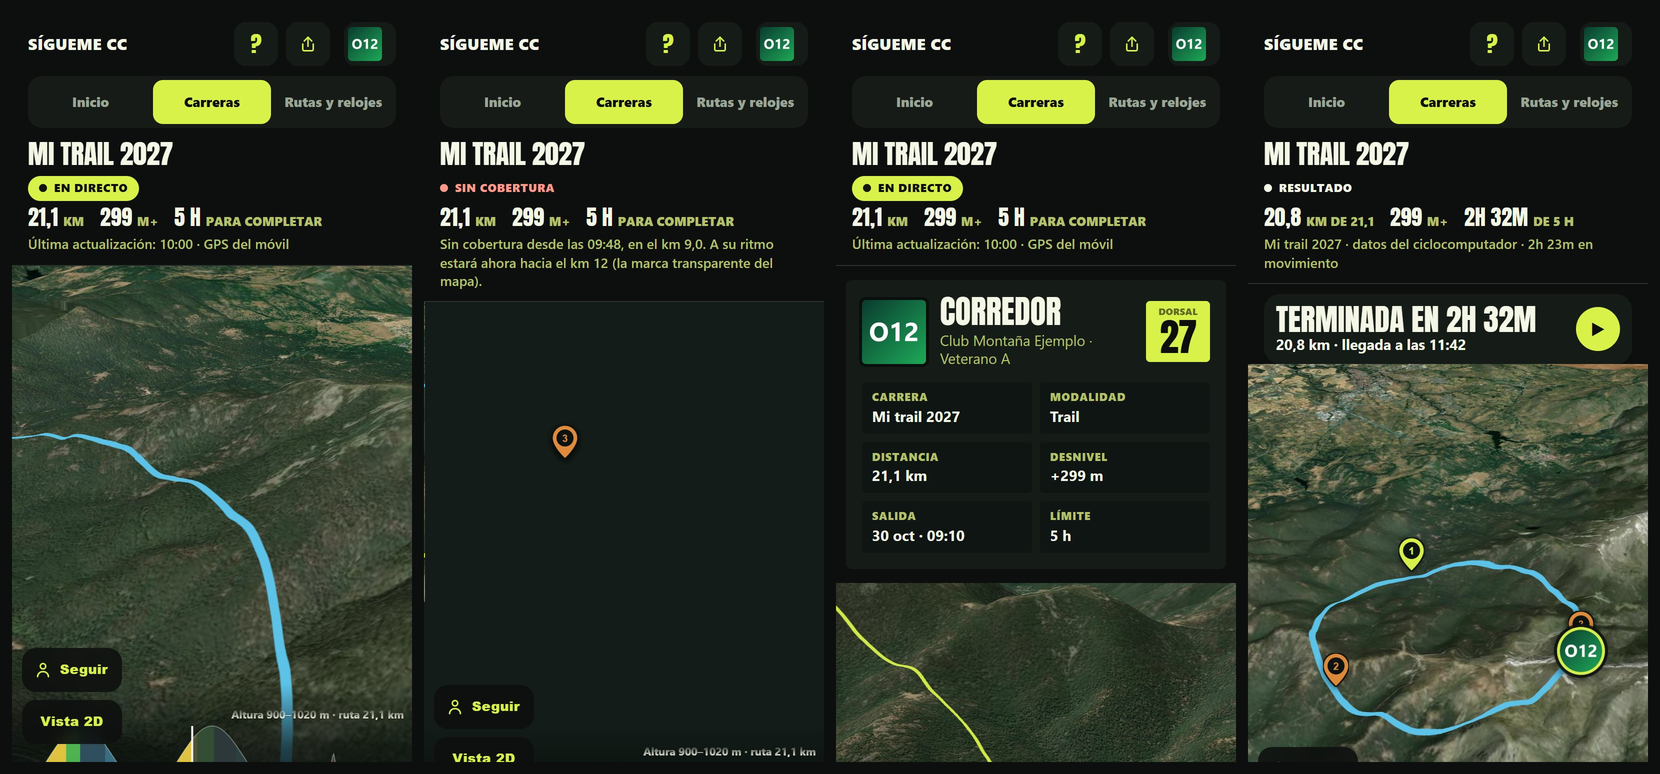
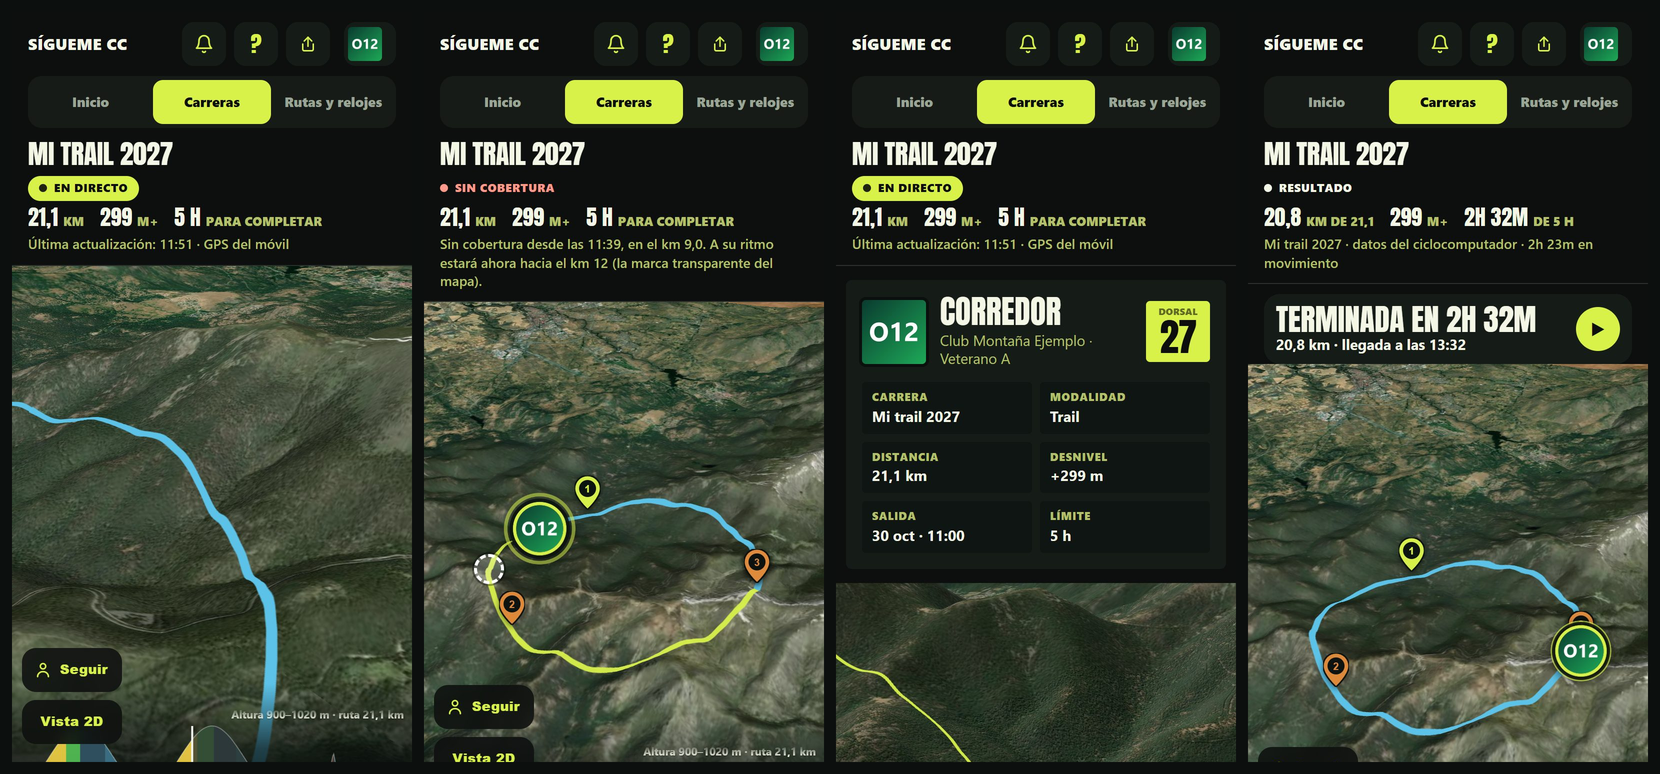
v1.47.2 · Rutas con saltos de GPS y capturas con la campana

diff --git a/pruebas/rutas_gpx.py b/pruebas/rutas_gpx.py
@@ -1,0 +1,52 @@
+"""Carga de rutas: muchos tipos de GPX dan la misma ruta (distancia y D+), los saltos de GPS no la inflan y los
+ficheros malos se rechazan con una explicación. Sin servidor: llama a herramientas/preparar_ruta.py."""
+import math, pathlib, sys
+
+sys.path.insert(0, str(pathlib.Path(__file__).resolve().parent.parent / "herramientas"))
+import preparar_ruta as pr
+
+R = 20.0 / (2 * math.pi) / 111.0
+fallos = []
+
+
+def ok(c, t):
+    print(("OK   " if c else "MAL  ") + t)
+    if not c:
+        fallos.append(t)
+
+
+def circuito(n=2000, ele=True, picos=False):
+    pts = []
+    for i in range(n + 1):
+        a = 2 * math.pi * i / n
+        la, lo = 42.6 + R * math.sin(a), -8.1 + R * math.cos(a) / math.cos(math.radians(42.6))
+        e = 300 + 150 * math.exp(-((i / n - 0.25) / 0.05) ** 2) + 90 * math.exp(-((i / n - 0.65) / 0.04) ** 2)
+        if picos and i % 400 == 200:
+            la += 0.01
+        pts.append((la, lo, round(e, 1) if ele else None))
+    return pts
+
+
+def gpx(pts, etiqueta="trkpt", ns=True):
+    cab = '<?xml version="1.0"?><gpx version="1.1"' + (' xmlns="http://www.topografix.com/GPX/1/1"' if ns else "") + ">"
+    cuerpo = "".join(f'<{etiqueta} lat="{p[0]:.6f}" lon="{p[1]:.6f}">' + (f"<ele>{p[2]}</ele>" if p[2] is not None else "") + f"</{etiqueta}>" for p in pts)
+    return (cab + ("<rte>" + cuerpo + "</rte>" if etiqueta == "rtept" else "<trk><trkseg>" + cuerpo + "</trkseg></trk>") + "</gpx>").encode()
+
+
+base = pr.preparar(gpx(circuito()))[2]
+ok(19.5 <= base["distancia_km"] <= 20.5 and 200 <= base["desnivel_m"] <= 300, f"track normal: {base['distancia_km']} km, +{base['desnivel_m']} m")
+for nombre, cuerpo in (("ruta <rtept>", gpx(circuito(), "rtept")), ("sin espacio de nombres", gpx(circuito(), ns=False)),
+                       ("con BOM", b"\xef\xbb\xbf" + gpx(circuito())), ("con saltos de GPS", gpx(circuito(picos=True)))):
+    r = pr.preparar(cuerpo)[2]
+    ok(abs(r["distancia_km"] - base["distancia_km"]) < 0.3, f"{nombre}: {r['distancia_km']} km (como el normal)")
+ok(pr.preparar(gpx(circuito(ele=False)))[2]["con_elevacion"] is False, "sin altura: entra sin D+ inventado")
+ok(abs(pr.preparar(gpx(circuito()), "x", 21.1)[2]["distancia_km"] - 21.1) < 0.01, "distancia oficial: la ruta se ajusta")
+for nombre, cuerpo in (("no es XML", b"hola"), ("sin puntos", gpx([])), ("menos de 100 m", gpx(circuito()[:5])),
+                       ("con ENTITY", b'<!DOCTYPE g [<!ENTITY a "a">]><gpx>&a;</gpx>'), ("UTF-16", gpx(circuito()[:50]).decode().encode("utf-16"))):
+    try:
+        pr.preparar(cuerpo)
+        ok(False, f"{nombre}: tenía que rechazarse")
+    except ValueError as exc:
+        ok(bool(str(exc)), f"{nombre}: rechazado ({exc})")
+print("\nTODO BIEN" if not fallos else f"\nFALLOS: {len(fallos)}")
+sys.exit(1 if fallos else 0)

diff --git a/herramientas/preparar_ruta.py b/herramientas/preparar_ruta.py
@@ -48,6 +48,21 @@ def leer_gpx(raiz):
     return salida
 
 
+def quitar_saltos(pts, minimo=0.15):
+    """Fuera los saltos de GPS: un punto que se va lejos (> 150 m de los dos vecinos) y vuelve casi al mismo sitio.
+    En una ruta grabada, cada salto sumaba dos veces la distancia del salto y movía todos los km de detrás."""
+    if len(pts) < 3:
+        return pts
+    limpio = [pts[0]]
+    for i in range(1, len(pts) - 1):
+        a, b, c = km_entre(limpio[-1], pts[i]), km_entre(pts[i], pts[i + 1]), km_entre(limpio[-1], pts[i + 1])
+        if a > minimo and b > minimo and c < 0.3 * (a + b):
+            continue
+        limpio.append(pts[i])
+    limpio.append(pts[-1])
+    return limpio
+
+
 def desnivel(eles):
     """Subida y bajada con histéresis: solo cuentan los cambios > UMBRAL."""
     sube = baja = 0.0
@@ -75,7 +90,7 @@ def preparar(gpx, nombre='Ruta', distancia=None):
             raise ValueError(f'No es un GPX válido ({exc}).')
     else:
         raiz = ET.parse(gpx).getroot()
-    pts = leer_gpx(raiz)
+    pts = quitar_saltos(leer_gpx(raiz))
     if len(pts) < 2:
         raise ValueError('El GPX no tiene puntos de track ni de ruta.')
     cum = [0.0]

diff --git a/CHANGELOG.md b/CHANGELOG.md
@@ -4,6 +4,11 @@ Versiones con [SemVer](https://semver.org/lang/es/): la última cifra para
 arreglos, la del medio para funciones nuevas. Cada una tiene su etiqueta y su
 release en GitHub.
 
+## v1.47.2 · 2026-10-30
+- **Rutas grabadas con saltos de GPS:** ya no inflan la distancia (un circuito de 20 km con 5 saltos medía 31 km y los avisos y los avituallamientos caían en el km equivocado). Se quitan los puntos que saltan lejos y vuelven.
+- **Prueba nueva de carga de rutas** (`pruebas/rutas_gpx.py`): track normal, ruta de Komoot (`<rtept>`), sin espacio de nombres, con BOM, con saltos, sin altura, distancia oficial y ficheros malos (no XML, sin puntos, menos de 100 m, ENTITY, UTF-16).
+- Capturas del repo con la campana de avisos.
+
 ## v1.47.1 · 2026-10-30
 - **Campana de avisos, tres fallos arreglados:** en el iPhone el permiso se pide en el mismo toque (Safari no deja pedirlo después de una espera y podía no salir nunca); la suscripción espera a que el service worker de los avisos esté activo (recién registrado, el navegador la rechazaba); y en pantallas de 320 px los botones de la cabecera ya no se salen.
 - Si la activación falla, el motivo queda en la consola del navegador.

diff --git a/README.md b/README.md
@@ -11,7 +11,7 @@
 </p>
 
 <p align="center">
-  <img alt="versión" src="https://img.shields.io/badge/versión-v1.47.1-1f8a4c">
+  <img alt="versión" src="https://img.shields.io/badge/versión-v1.47.2-1f8a4c">
   <img alt="Python" src="https://img.shields.io/badge/servidor-Python%203%20·%20stdlib-3776ab">
   <img alt="MapLibre" src="https://img.shields.io/badge/mapa-MapLibre%204.7-396cb2">
   <img alt="Zepp OS" src="https://img.shields.io/badge/reloj-Zepp%20OS%203-ff6a00">
